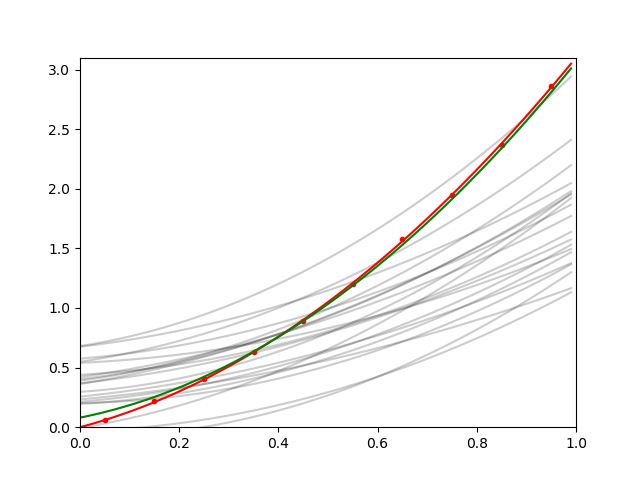
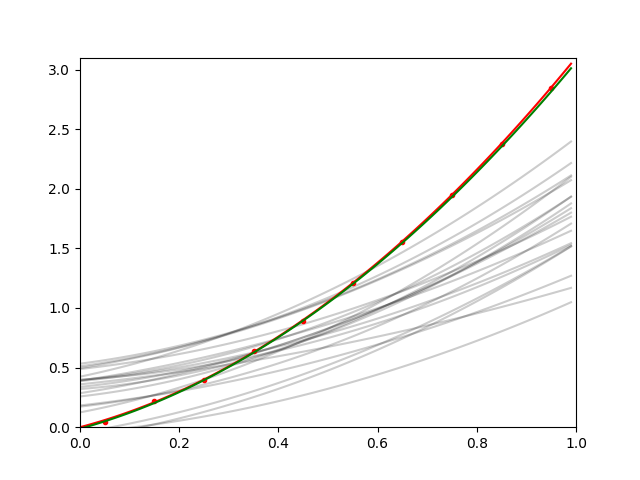
added simple dynamic model tests (fixed)

diff --git a/dynamic_tests/simple_model.py b/dynamic_tests/simple_model.py
@@ -26,6 +26,7 @@ class simpleEcosystem:
         out_s1=[]
         out_f=[]
         self.s1=self.s1_ini
+        self.ts=0
         for n in range(nts):
             f=self.forcing()
             self.integrate_ts(f)
@@ -54,6 +55,9 @@ class simpleEcosystemEnsemble:
 
     def gen_obs(self):    
         self.obs_x=np.random.rand(self.nobs)
+        #sort not needed, but makes looking at
+        #the outputs a bit more intuitive:
+        self.obs_x.sort()
         self.obs_x=np.asarray(self.obs_x*self.n_ts,dtype=int)
         (_,state)=self.truth.run_model(self.n_ts)        
         self.obs_y=state[self.obs_x]+np.random.randn(self.nobs)*self.obs_uncert
@@ -102,16 +106,17 @@ class simpleEcosystemEnsemble:
             for n in range(self.nens):
                 (_,state)=self.ensemble[n].run_model(self.n_ts)
                 ens.append(state)   
-            for m in range(self.nobs):
+            for mx in self.obs_x:
                 for n in range(self.nens):
-                    f.write("%f "%ens[n][self.obs_x[m]])
+                    f.write("%f "%ens[n][mx])
                 f.write("\n")
              
         #predicted observations from expected value of 
         #the prior distribution:
         with open("0hxbar.dat","w") as f:
-            for m in range(self.nobs):
-                f.write("%f\n"%self.obs_y[m])
+            (_,state)=self.prior.run_model(self.n_ts)
+            for mx in self.obs_x: 
+                f.write("%f\n"%state[mx])
              
 
 
@@ -122,21 +127,21 @@ class simpleEcosystemEnsemble:
         for n in range(self.nens):
             (_,state)=self.ensemble[n].run_model(self.n_ts)        
             if n==0:
-                plt.plot(x,state,"b-",alpha=0.2,label="HX'b")
+                plt.plot(x,state,"y-",alpha=0.2,label="HX'b")
             else:    
-                plt.plot(x,state,"b-",alpha=0.2)
+                plt.plot(x,state,"y-",alpha=0.2)
  
         (_,true_state)=self.truth.run_model(self.n_ts)        
-        plt.plot(x,true_state,"r-",label="truth")
-        plt.plot(self.obs_x,self.obs_y,"ro",label="y")
+        plt.plot(x,true_state,"g-",label="truth")
+        plt.plot(self.obs_x,self.obs_y,"go",label="y",linewidth=2.0)
 
         (_,prior_state)=self.prior.run_model(self.n_ts)        
-        plt.plot(x,prior_state,"g-",label="h(xb)")
+        plt.plot(x,prior_state,"y-",label="h(xb)",linewidth=2.0)
 
         if analysis is not None:
             posterior=simpleEcosystem(s1=analysis[0],p1=analysis[1],p2=analysis[2])
             (_,posterior_state)=posterior.run_model(self.n_ts)        
-            plt.plot(x,posterior_state,"y-",label="post")            
+            plt.plot(x,posterior_state,"r-",label="post",linewidth=2)            
 
         plt.xlabel("time step")
         plt.ylabel("model state")
@@ -158,7 +163,6 @@ def do_4denvar():
     return analysis
 
 
-
 def simple_model_run():
     """simple demo function for testing
     """
@@ -174,13 +178,13 @@ def simple_model_run():
 if __name__=="__main__":
 
     
-    n_ts=365*10
-    coefs_truth=(90,0.4,0.0015)
-    coefs_prior=(100,0.5,0.001)
-    uncert_prior=(20,0.1,0.0002)
-    nobs=100
-    nens=40
-    obs_uncert=1 #stddev
+    n_ts=int(365*10)
+    coefs_truth=(100,0.4,0.001)
+    coefs_prior=(250,0.5,0.001)
+    uncert_prior=(50,0.05,0.0002)
+    nobs=5
+    nens=20
+    obs_uncert=10 #stddev
     s=simpleEcosystemEnsemble(n_ts,coefs_truth,coefs_prior,uncert_prior,nens,nobs,obs_uncert)
     s.write_files()
 
